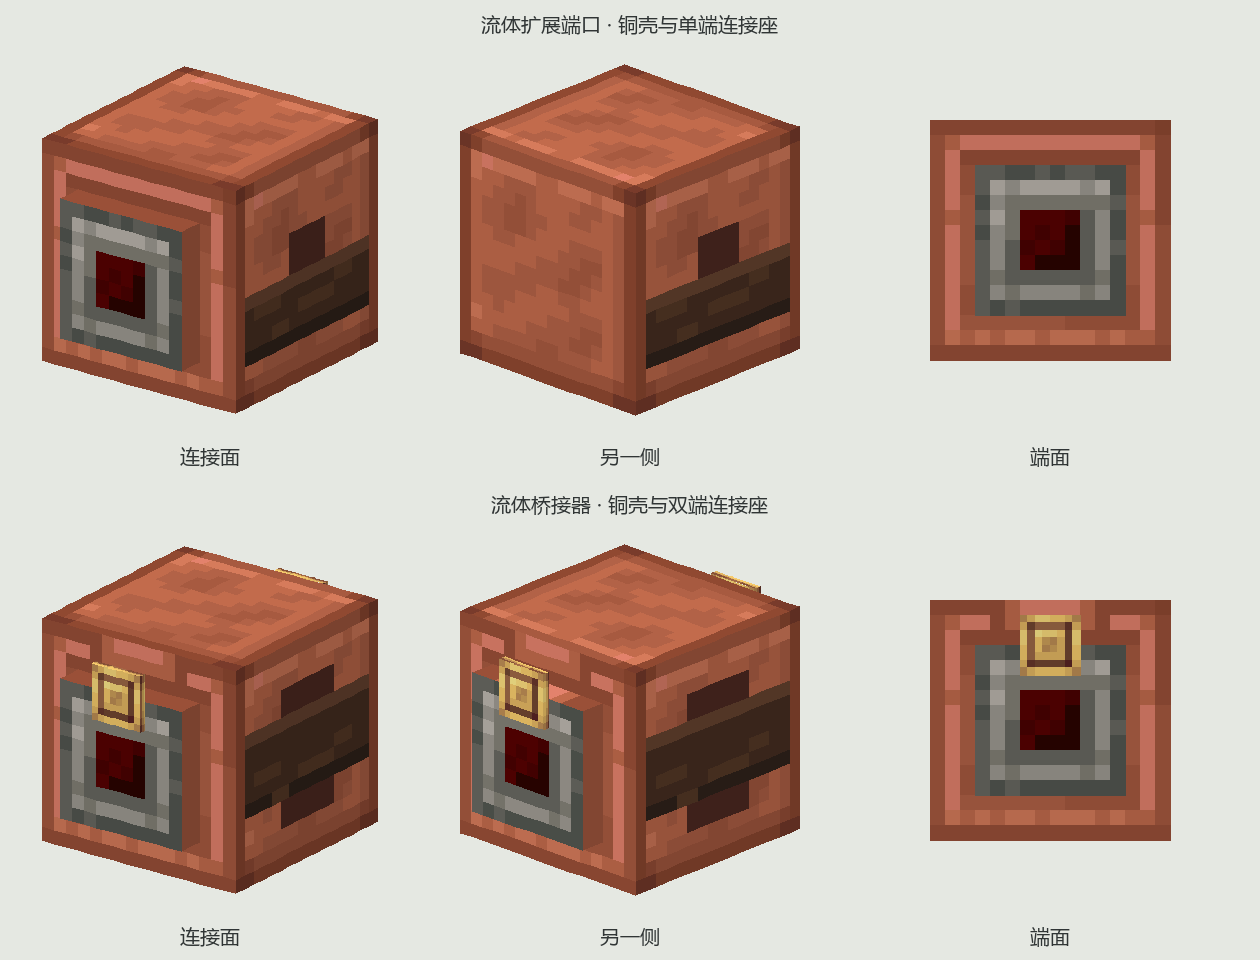
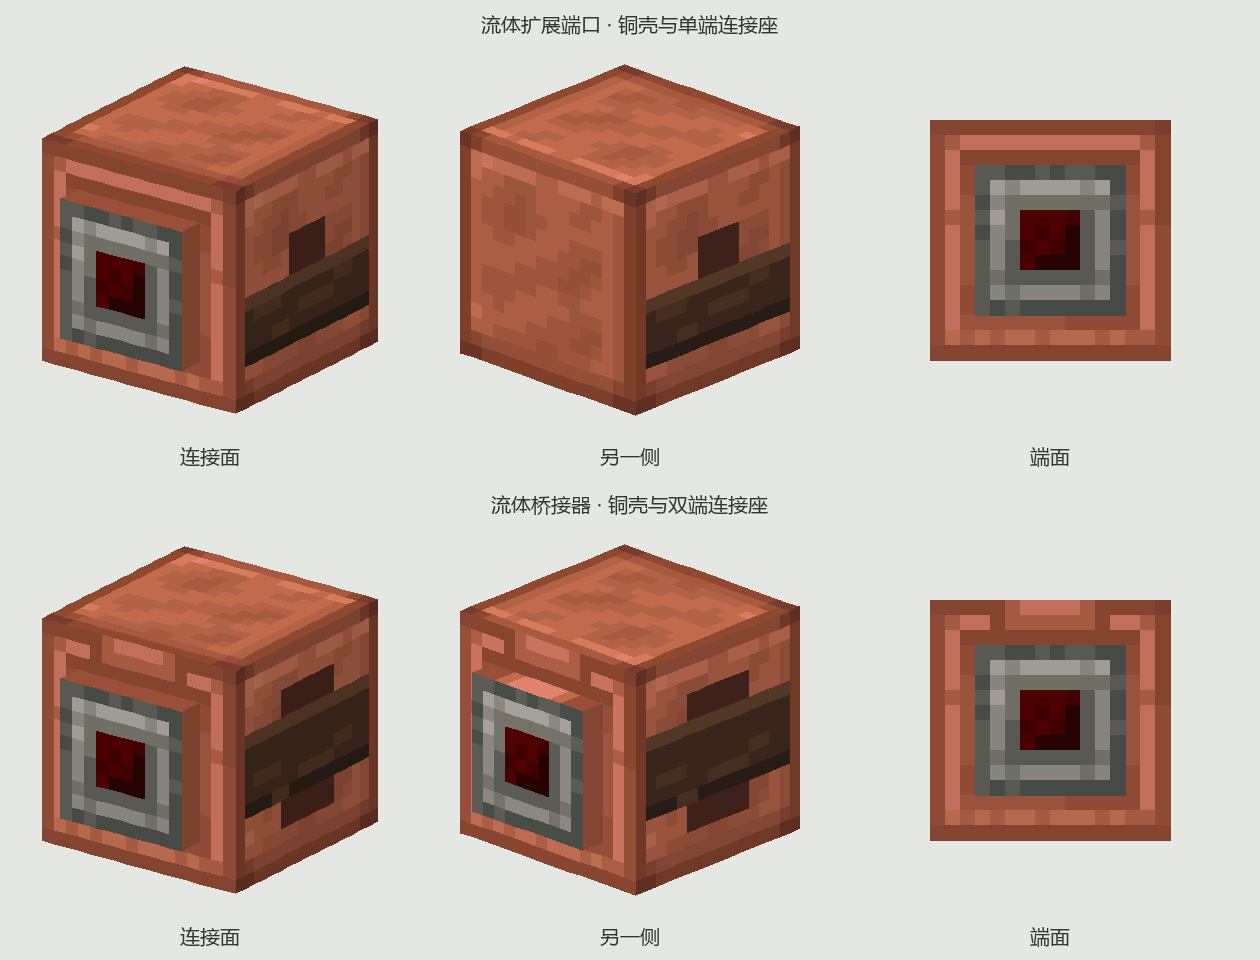
Integrate bridge filter interaction into connector faces

diff --git a/tools/create-fluid-access-art.py b/tools/create-fluid-access-art.py
@@ -127,30 +127,9 @@ def main():
                 seat=cube('raised_socket_'+end,lo,hi,'socket')
                 seat['faces'][end]={'texture':'#socket','uv':[3,3,13,13]}
                 elements.append(seat)
-            if bridge:
-                # Small native smart-pipe filter panel at the existing interaction position.
-                source=json.loads(archive.read('assets/create/models/block/smart_fluid_pipe/block.json'))
-                panel=source['elements'][2]
-                for end in ends:
-                    e=json.loads(json.dumps(panel)); e['name']='native_filter_'+end
-                    e.pop('rotation',None)
-                    # Fit the original panel to 5x5, centered on y=12, aligned to the native filter transform.
-                    original_lo=panel['from']; original_hi=panel['to']
-                    for key in ['from','to']:
-                        p=panel[key]
-                        e[key]=[6+(p[0]-original_lo[0])*4/(original_hi[0]-original_lo[0]),
-                                11+(p[1]-original_lo[1])*4/(original_hi[1]-original_lo[1]),
-                                18.05+(p[2]-original_lo[2])*.5/(original_hi[2]-original_lo[2])]
-                    for f in e['faces'].values(): f['texture']='#filter'; f.pop('cullface',None)
-                    e['faces']['south']['uv']=[8,8,16,16]
-                    if end=='north':
-                        for key in ['from','to']: e[key][2]=16-e[key][2]
-                        e['from'][2],e['to'][2]=sorted([e['from'][2],e['to'][2]])
-                        e['faces']={({'north':'south','south':'north'}.get(s,s)):f for s,f in e['faces'].items()}
-                    elements.append(e)
             textures={'body':f'ccd:block/fluid_access/{material}','socket':'ccd:block/fluid_access/'+('connected_bridge' if bridge else 'connected_port'),
                       'band':'ccd:block/fluid_access/'+('bridge_band' if bridge else 'copper_band'),
-                      'pipe':'create:block/pipes','filter':'create:block/smart_pipe_2','particle':'#body'}
+                       'particle':'#body'}
             model={'parent':'minecraft:block/block','ambientocclusion':False,'textures':textures,'elements':elements}
             save(ASSETS/f'models/block/{name}.json',model)
             save(ASSETS/f'models/item/{name}.json',{'parent':f'ccd:block/{name}','display':{'gui':{'rotation':[30,45,0],'scale':[.65,.65,.65]}}})
@@ -162,7 +141,8 @@ def main():
     atlas.save(OUT/'textures-source.png'); atlas.resize((1024,256),Image.Resampling.NEAREST).save(OUT/'textures.png')
     save(OUT/'model.meta.json',{'reference':'Connected full casing, raised end sockets and broad side band; Create stock-link metal shading and native filter',
          'textures':'CCD hand-drawn 16x16 copper panels, dark copper band and grey metal socket seats',
-          'upstreamResources':['Connected inventory_access_port_front and inventory_bridge_front (AGPL-3.0 plus additional terms)','create:block/smart_pipe_2'],
+           'upstreamResources':['Connected inventory_access_port_front and inventory_bridge_front (AGPL-3.0 plus additional terms)'],
+           'filterPosition':'center of each connector face; no separate panel geometry',
           'connectedAssetsCopied':True,'preview':'actual model geometry, offline lighting; no client validation'})
 
 def render_preview(models,archive):

diff --git a/src/main/java/dev/ccd/content/FluidAccessBlockEntity.java b/src/main/java/dev/ccd/content/FluidAccessBlockEntity.java
@@ -39,7 +39,7 @@ public final class FluidAccessBlockEntity extends SmartBlockEntity implements IH
     @Override public void addBehaviours(List<BlockEntityBehaviour> behaviours) {
         if (!((FluidAccessBlock)getBlockState().getBlock()).isBridge()) return;
         behaviours.add(filters=new SidedFilteringBehaviour(this,new ValueBoxTransform.Sided() {
-            @Override protected Vec3 getSouthLocation() { return new Vec3(.5,13/16d,18.55/16d); }
+            @Override protected Vec3 getSouthLocation() { return new Vec3(.5,.5,18.01/16d); }
             @Override public float getScale() { return .3f; }
             @Override protected boolean isSideActive(BlockState state,Direction side) { return side.getAxis()==state.getValue(FluidAccessBlock.FACING).getAxis(); }
         },(direction,filter)->filter.forFluids().withCallback(stack->{ if(level!=null) level.invalidateCapabilities(worldPosition); }),
